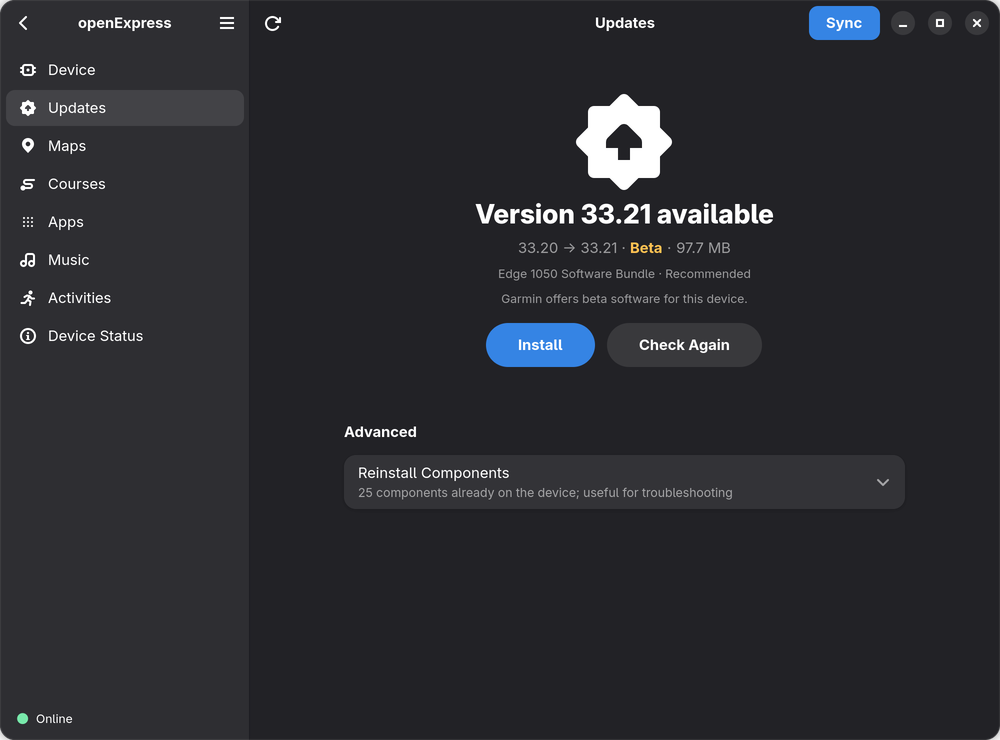
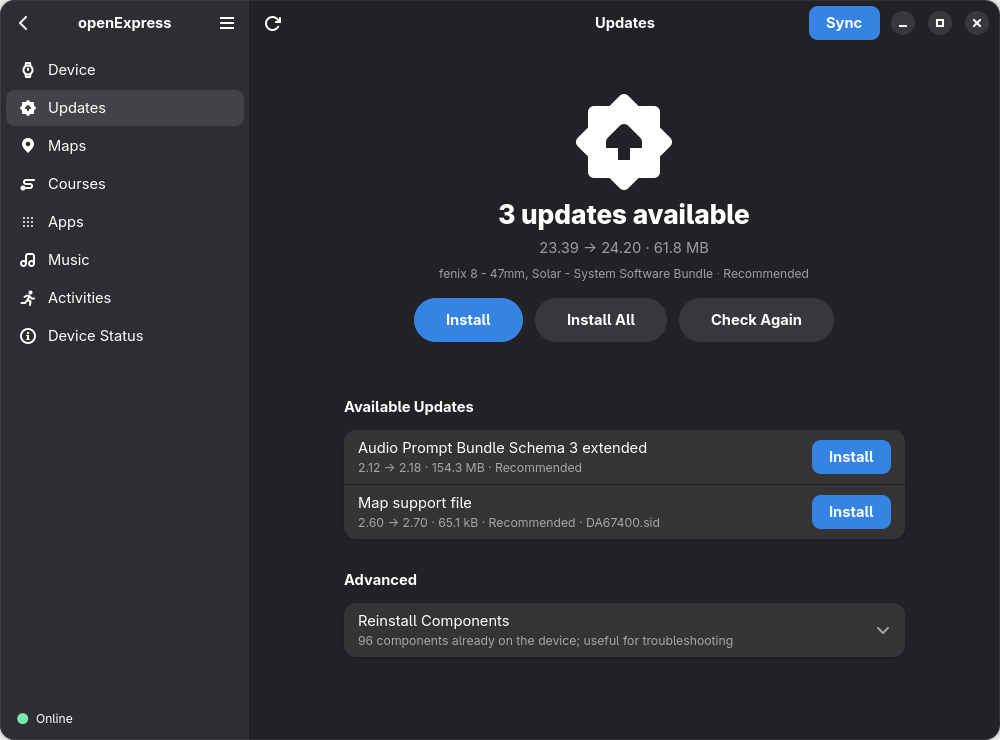
Release 0.12.0
Your sensors' batteries and solar charging from your Garmin Connect account: the rows Account
Sensors and Solar Charging on the device page, openexpress sensors and openexpress solar on the
command line. With them: a button's label in a narrow window, the message about a user without
access to the device on USB, the Venu 2S, Polish names as in Garmin's manuals, Weblate's pull
requests 64 and 65.

Screenshots from the real window on a fēnix 8 Solar: account.png (new, in the README, the guide
and the metainfo), updates.png (the fēnix's three updates instead of a made-up beta of an Edge
1050) and device.png. "The sun added" instead of "gained" in the documents. The design of renaming
a sensor: D1 chosen, a separate analysis session. Polish for the two new captions.

diff --git a/openexpress/__init__.py b/openexpress/__init__.py
@@ -1,3 +1,3 @@
 """Unofficial Linux app for Garmin watches and bike computers."""
 
-__version__ = "0.11.1"
+__version__ = "0.12.0"

diff --git a/docs/guide.md b/docs/guide.md
@@ -8,7 +8,7 @@ Fedora/GNOME; the devices it was tried on: [Supported devices](devices.md).
 
 <p align="center">
   <img src="screenshots/updates.png" width="800"
-       alt="The Updates page of an Edge 1050: beta version 33.21 available (33.20 → 33.21, 97.7 MB), with Install, Check Again and Reinstall Components">
+       alt="The Updates page of a fēnix 8: 3 updates available, the system software 23.39 → 24.20 (61.8 MB) with Install, Install All and Check Again, an audio prompt bundle and a map support file with Install, and Reinstall Components">
 </p>
 
 ## Setup
@@ -71,9 +71,9 @@ The device page of a connected device:
   dialog;
 - shows, under the rows of the account, **Account Sensors**: the sensors on your account with
   their batteries, low ones first, in a row that opens on them; under it, for a device that
-  charges from the sun, **Solar Charging**: the activity time the sun gained it today and in the
-  last 7 days (*under a minute* in a dark week). Both are read from the account, kept a while and
-  not shown for a device that is not on it
+  charges from the sun, **Solar Charging**: the activity time the sun added today and in the
+  last 7 days (*under a minute* in a dark week). Both are read from the account, kept for up to
+  an hour and not shown for a device that is not on it
   ([Privacy](privacy.md#readings-of-the-account-sensors-and-solar-charging));
 - has **Apps** and **Music** rows that lead to their pages, as **Maps** does, and say how many
   there are once those pages have read them;
@@ -82,6 +82,11 @@ The device page of a connected device:
   device was still writing is read once more, as during a sync ([Sync details](#sync-details));
   a file still cut short is left out, and the backup then says to unplug the device, plug it in
   again and make the backup again.
+
+<p align="center">
+  <img src="screenshots/account.png" width="700"
+       alt="The device page of a fēnix 8 Solar: the Garmin Connect account with Account Sensors expanded on five sensors, their batteries and last connections, and Solar Charging under it">
+</p>
 
 A device seen before and not connected opens read-only: what was known of it when it was last
 seen, its last sync with its details, what the last check of its updates found and when (*Not
@@ -127,7 +132,7 @@ ejected, in [Mass storage (USB drive)](devices.md#mass-storage-usb-drive).
 
 <p align="center">
   <img src="screenshots/device.png" width="700"
-       alt="The device page of a fēnix 8: its software version, storage, the last sync and the updates">
+       alt="The device page of a fēnix 8: its software version with Update available, storage, the last sync and the updates, Satellite Data turned on">
 </p>
 
 ## Software updates

diff --git a/docs/design/nazwy-czujnikow.md b/docs/design/nazwy-czujnikow.md
@@ -1,7 +1,8 @@
 # Design: renaming a sensor on the Garmin Connect account
 
 Status: proposed, waiting for review; nothing is implemented. The request that renames a sensor is
-not known yet (section 2): no step of section 8 starts before it is.
+not known yet (section 2): no step of section 8 starts before it is. D1 is chosen: a separate
+analysis session on Garmin Connect for Android.
 
 ## 1. Scope
 
@@ -23,7 +24,8 @@ lists the sensors; each item has `deviceName` (the name shown), `sensorType`, `b
 sensor in it, what it answers, the limits of a name (length, characters), and whether the new name
 reaches the devices the sensor is paired with.
 
-**How to learn it** (D1), facts only, written into a private note with where each was learnt:
+**How to learn it** (D1, chosen: (a)), facts only, written into a private note with where each was
+learnt:
 - (a) a separate analysis session on Garmin Connect for Android: the method, the address, the fields
   of the body and of the answer, the limits the app checks before sending;
 - (b) the user renames one sensor on Garmin Connect's web page, if it offers that, with the browser's
@@ -110,7 +112,7 @@ and give it its old name back.
 
 | | Question | Recommendation | What the other way costs |
 |---|---|---|---|
-| D1 | How do we learn the request? | (a) an analysis session on Garmin Connect for Android | (b) the web page: quicker, but it may not offer renaming, and shows only what the page sends, not the limits the app checks |
+| D1 | How do we learn the request? | *Chosen:* (a) an analysis session on Garmin Connect for Android | (b) the web page: quicker, but it may not offer renaming, and shows only what the page sends, not the limits the app checks |
 | D2 | What does one click to rename? | the sensor's row opens the dialog (edit icon at its end) | a Rename button on each row: five labelled buttons in a list, cramped at 360 px |
 | D3 | How does the command line name the sensor? | by its whole name, as `openexpress sensors` prints it | by its place in that list: the order changes as sensors connect, so a place may name another sensor |
 | D4 | Read the list back after a change? | yes, one request more | without it the window shows the name sent, not the one the account keeps |

diff --git a/docs/cli.md b/docs/cli.md
@@ -41,7 +41,7 @@ the two are separate installations, see
 | `openexpress apps order [--from COPY] [--all] [--apply]` | put apps and widgets back in the order of a saved copy of the app list; without `--from` it lists the copies with how many apps each would move, `--all` lists every position that would change |
 | `openexpress primary [--wearable]`, `primary set [--wearable] [--apply]` | the account's primary training device, with `--wearable` its primary wearable (steps and sleep); `set` makes the connected device the primary training device (the main source of performance and training data in Garmin Connect, as `set` says first), `set --wearable` the primary wearable |
 | `openexpress sensors` | the sensors on your Garmin account (a heart rate strap, a Varia, a power meter…) with their batteries and when each was last connected, low batteries first; no device needed, the account does not say which device a sensor is paired with ([details](#sensors-and-solar)) |
-| `openexpress solar [--days N]` | for each device of your Garmin account that charges from the sun: the activity time the sun gained it today, in the last N days (7 by default, at most 31) and day by day ([details](#sensors-and-solar)) |
+| `openexpress solar [--days N]` | for each device of your Garmin account that charges from the sun: the activity time the sun added today, in the last N days (7 by default, at most 31) and day by day ([details](#sensors-and-solar)) |
 | `openexpress courses` | experimental: the courses on the connected device, the GPX files waiting to become courses and the saved locations ([details](#courses)) |
 | `openexpress courses add FILE.gpx [--name COURSE] [--apply]` | experimental: copy a GPX file to `Garmin/NewFiles`, where the device turns it into courses when it is unplugged ([details](#courses-add)) |
 | `openexpress courses remove NAME [--apply]` | experimental: remove one course or one GPX file waiting for the device ([details](#courses-remove)) |

diff --git a/README.md b/README.md
@@ -62,7 +62,7 @@ devices that connect over USB (MTP) should work too – reports are welcome.
 - Makes backups of the device and keeps copies of its diagnostic files on this computer.
 - Shows and sets the primary training device and the primary wearable.
 - Shows the sensors on your Garmin Connect account with their batteries, low ones first, and the
-  activity time the sun gained a device that charges from the sun: on the device page and with
+  activity time the sun added to a device that charges from the sun: on the device page and with
   `openexpress sensors` and `openexpress solar`; only read from the account.
 - Works in a GTK 4 / libadwaita window, on the command line and in the background.
 - Sends no telemetry. Translated on Hosted Weblate ([Help translate](#help-translate)).
@@ -72,6 +72,11 @@ devices that connect over USB (MTP) should work too – reports are welcome.
     <source media="(prefers-color-scheme: dark)" srcset="docs/screenshots/courses.png">
     <img alt="The Courses page: four courses on a fēnix 8, two copied by openExpress and one from Garmin Connect, a GPX file waiting for the watch to be unplugged and its saved locations" src="docs/screenshots/courses-light.png" width="700">
   </picture>
+</p>
+
+<p align="center">
+  <img src="docs/screenshots/account.png" width="700"
+       alt="The device page of a fēnix 8 Solar: the Garmin Connect account with Account Sensors expanded on five sensors, their batteries and last connections, and Solar Charging under it">
 </p>
 
 <p align="center">

diff --git a/docs/privacy.md b/docs/privacy.md
@@ -215,7 +215,7 @@ Charging (signed out, or for a device not on your account, nothing is asked).
 | Request | What it sends | What is kept |
 |---|---|---|
 | The sensors on the account (`openexpress sensors`, the row Account Sensors) | nothing but the signed request | each sensor's name, type, battery and last connection, for 30 minutes |
-| The activity time the sun gained a device (`openexpress solar`, for each device of the account that charges from the sun; the row Solar Charging, for the device of the page) | the device's Garmin Connect ID and the days asked | the date and the time gained of each day, for an hour |
+| The activity time the sun added to a device (`openexpress solar`, for each device of the account that charges from the sun; the row Solar Charging, for the device of the page) | the device's Garmin Connect ID and the days asked | the date and the time gained of each day, for an hour |
 
 - Never kept, shown or logged: a sensor's serial number, part number, product, software version
   and picture.
